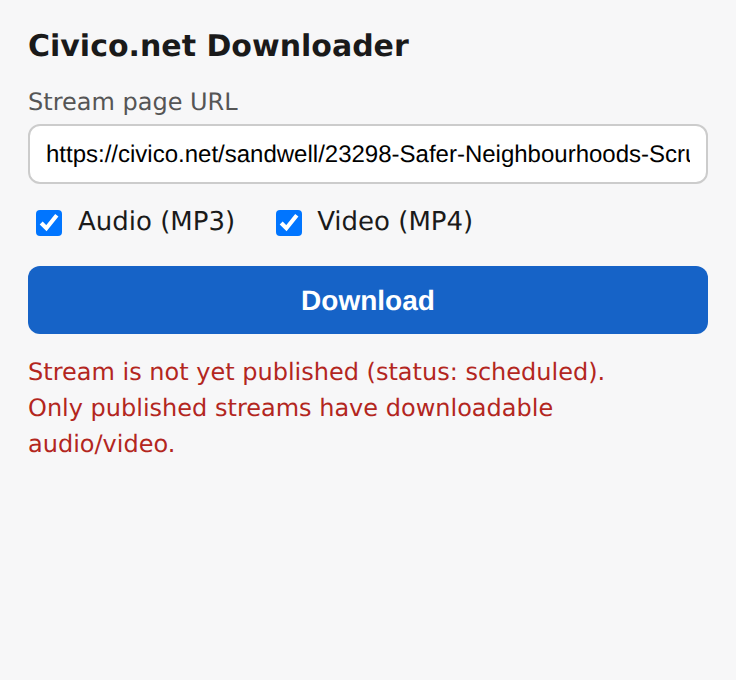
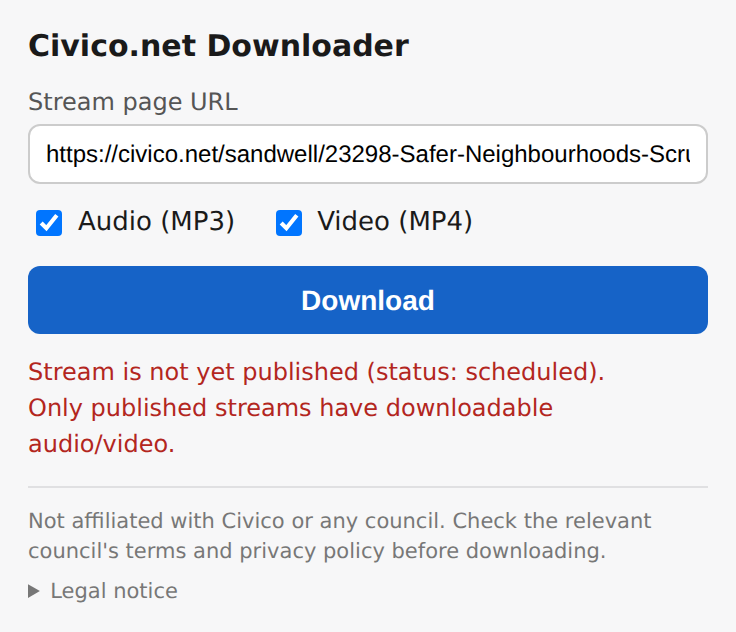
Add legal disclaimer to extension and release materials
Popup gains a footer disclaimer plus an expandable Legal notice (no
affiliation, content ownership, user responsibility, no warranty). Full
legal text lives in DISCLAIMER.md; the store listing description and
docs reference it. Screenshots and the store ZIP are regenerated to
match the updated popup.

Claude-Session: https://claude.ai/code/session_01Fswuogghd6HXAem9J9kXaM

Changed region(s): [[0.0312, 0.1203, 0.9688, 0.7215], [0.0312, 0.8117, 0.9062, 0.962], [0.0312, 0.0301, 0.5625, 0.0902]]

diff --git a/chrome-extension/popup.html b/chrome-extension/popup.html
@@ -26,6 +26,35 @@
 
   <div id="status" class="status"></div>
 
+  <footer class="footer">
+    <p class="disclaimer">
+      Not affiliated with Civico or any council. Check the relevant council's
+      terms and privacy policy before downloading.
+    </p>
+    <details class="legal">
+      <summary>Legal notice</summary>
+      <p>
+        This extension is an independent, open-source tool and is not
+        affiliated with, endorsed by, or connected to Civico (civico.io /
+        civico.net) or any local authority. It only automates access to
+        recordings that the hosting council has already made publicly
+        available on its Civico webcast pages.
+      </p>
+      <p>
+        Recordings remain the property of the respective council and/or its
+        streaming provider. You are responsible for ensuring that your use of
+        downloaded material complies with the council's terms of use, privacy
+        policy, and applicable copyright law. Downloaded files are for
+        personal, research, or archival use unless the council permits
+        otherwise.
+      </p>
+      <p>
+        The software is provided "as is", without warranty of any kind. The
+        authors accept no liability for any use of this tool.
+      </p>
+    </details>
+  </footer>
+
   <script src="popup.js"></script>
 </body>
 </html>

diff --git a/chrome-extension/popup.css b/chrome-extension/popup.css
@@ -80,3 +80,33 @@ button:disabled {
 .status.success {
   color: #1a7f37;
 }
+
+.footer {
+  margin-top: 12px;
+  padding-top: 10px;
+  border-top: 1px solid #e0e0e2;
+}
+
+.disclaimer {
+  margin: 0 0 6px;
+  font-size: 10.5px;
+  line-height: 1.45;
+  color: #777;
+}
+
+.legal summary {
+  font-size: 10.5px;
+  color: #777;
+  cursor: pointer;
+}
+
+.legal summary:hover {
+  color: #444;
+}
+
+.legal p {
+  margin: 6px 0 0;
+  font-size: 10.5px;
+  line-height: 1.45;
+  color: #777;
+}

diff --git a/DISCLAIMER.md b/DISCLAIMER.md
@@ -1,0 +1,64 @@
+# Legal Disclaimer — Civico.net Scraper / Civico.net Downloader
+
+_Last updated: 7 August 2026_
+
+This disclaimer applies to all components of this project: the Python CLI
+(`scraper.py`), the desktop GUI (`gui.py`), and the Chrome extension
+(`chrome-extension/`), together referred to as "the Software".
+
+## No affiliation
+
+The Software is an independent, open-source project. It is **not affiliated
+with, endorsed by, sponsored by, or otherwise connected to** Civico
+(civico.io / civico.net), any local authority, council, or any streaming
+provider. All product names, logos, and brands mentioned are the property of
+their respective owners and are used for identification purposes only.
+
+## What the Software does
+
+The Software automates access to audio/video recordings that the hosting
+council has **already made publicly available** on its Civico webcast pages.
+It does not bypass authentication, DRM, paywalls, or any access control; it
+requests the same public URLs a web browser would.
+
+## Content ownership and your responsibilities
+
+Recordings of council meetings remain the property of the respective council
+and/or its streaming provider, and may be subject to copyright, database
+rights, and the council's own terms of use and privacy policy (councils
+hosted on Civico typically link their policies from their webcast pages —
+e.g. `civico.net/<council>/privacy-policy`).
+
+By using the Software you accept that **you are solely responsible** for:
+
+- ensuring your use of downloaded material complies with the relevant
+  council's terms of use and privacy policy;
+- complying with applicable law in your jurisdiction, including copyright
+  law and — where recordings contain personal data — data-protection law
+  (e.g. UK GDPR when processing personal data of identifiable individuals);
+- how you store, use, share, or republish any downloaded material.
+
+Downloaded files are intended for personal, research, journalistic, or
+archival use, unless the content owner permits broader use. Do not
+redistribute recordings commercially or present them in a misleading
+context.
+
+## No warranty and limitation of liability
+
+THE SOFTWARE IS PROVIDED "AS IS", WITHOUT WARRANTY OF ANY KIND, EXPRESS OR
+IMPLIED, INCLUDING BUT NOT LIMITED TO THE WARRANTIES OF MERCHANTABILITY,
+FITNESS FOR A PARTICULAR PURPOSE AND NONINFRINGEMENT. IN NO EVENT SHALL THE
+AUTHORS OR COPYRIGHT HOLDERS BE LIABLE FOR ANY CLAIM, DAMAGES OR OTHER
+LIABILITY, WHETHER IN AN ACTION OF CONTRACT, TORT OR OTHERWISE, ARISING
+FROM, OUT OF OR IN CONNECTION WITH THE SOFTWARE OR THE USE OR OTHER DEALINGS
+IN THE SOFTWARE.
+
+The Software depends on third-party services (civico.net) that may change or
+withdraw their public endpoints at any time; the authors do not guarantee
+continued functionality.
+
+## Takedown / contact
+
+If you represent Civico or a council and believe the Software or its
+distribution raises a concern, contact **coders@attv.uk** and we will
+respond promptly.

diff --git a/store/store-listing.md b/store/store-listing.md
@@ -34,9 +34,16 @@ registration fee applies to new accounts.
 > Notes:
 > - Only published streams have downloadable recordings; the extension tells
 >   you if a stream is not yet published.
-> - This extension is not affiliated with Civico. Check the relevant
->   council's privacy policy and terms before downloading content.
 > - Open source: https://github.com/AmigoUK/civicoscr
+>
+> Legal: This extension is an independent tool and is not affiliated with,
+> endorsed by, or connected to Civico or any council. It only automates
+> access to recordings that councils have already made publicly available —
+> it does not bypass any authentication or access controls. Recordings
+> remain the property of the respective council and/or its streaming
+> provider. You are responsible for ensuring your use of downloaded material
+> complies with the council's terms of use, privacy policy, and applicable
+> copyright law. Provided "as is", without warranty of any kind.
 
 ## Graphic assets
 
@@ -78,6 +85,15 @@ metadata and media.
 **Privacy policy URL:** required field — host `store/privacy-policy.md`
 somewhere public (GitHub Pages, a public gist, or make the repo public and use
 the raw file URL), then paste that URL.
+
+## Legal / disclaimer
+
+The full legal disclaimer lives in [`../DISCLAIMER.md`](../DISCLAIMER.md)
+(no affiliation with Civico or any council, content ownership, user
+responsibilities, no warranty, takedown contact). A short version is baked
+into the extension popup itself (footer + expandable "Legal notice"), and a
+condensed paragraph is part of the store description above — keep all three
+in sync if the wording changes.
 
 ## Upload
 

diff --git a/chrome-extension/README.md b/chrome-extension/README.md
@@ -29,6 +29,14 @@ are named `{streamId}_{title}.mp3` / `.mp4`, matching the CLI tool.
 Note: only **published** streams have downloadable audio/video — the extension
 tells you if a stream isn't published yet.
 
+## Legal
+
+The popup footer carries a short disclaimer plus an expandable "Legal
+notice"; the full text is in [`../DISCLAIMER.md`](../DISCLAIMER.md). In
+short: not affiliated with Civico or any council, recordings remain the
+property of their owners, and you are responsible for complying with the
+council's terms and applicable law.
+
 ## Publishing to the Chrome Web Store
 
 Everything needed for a store submission lives in [`../store/`](../store/):
